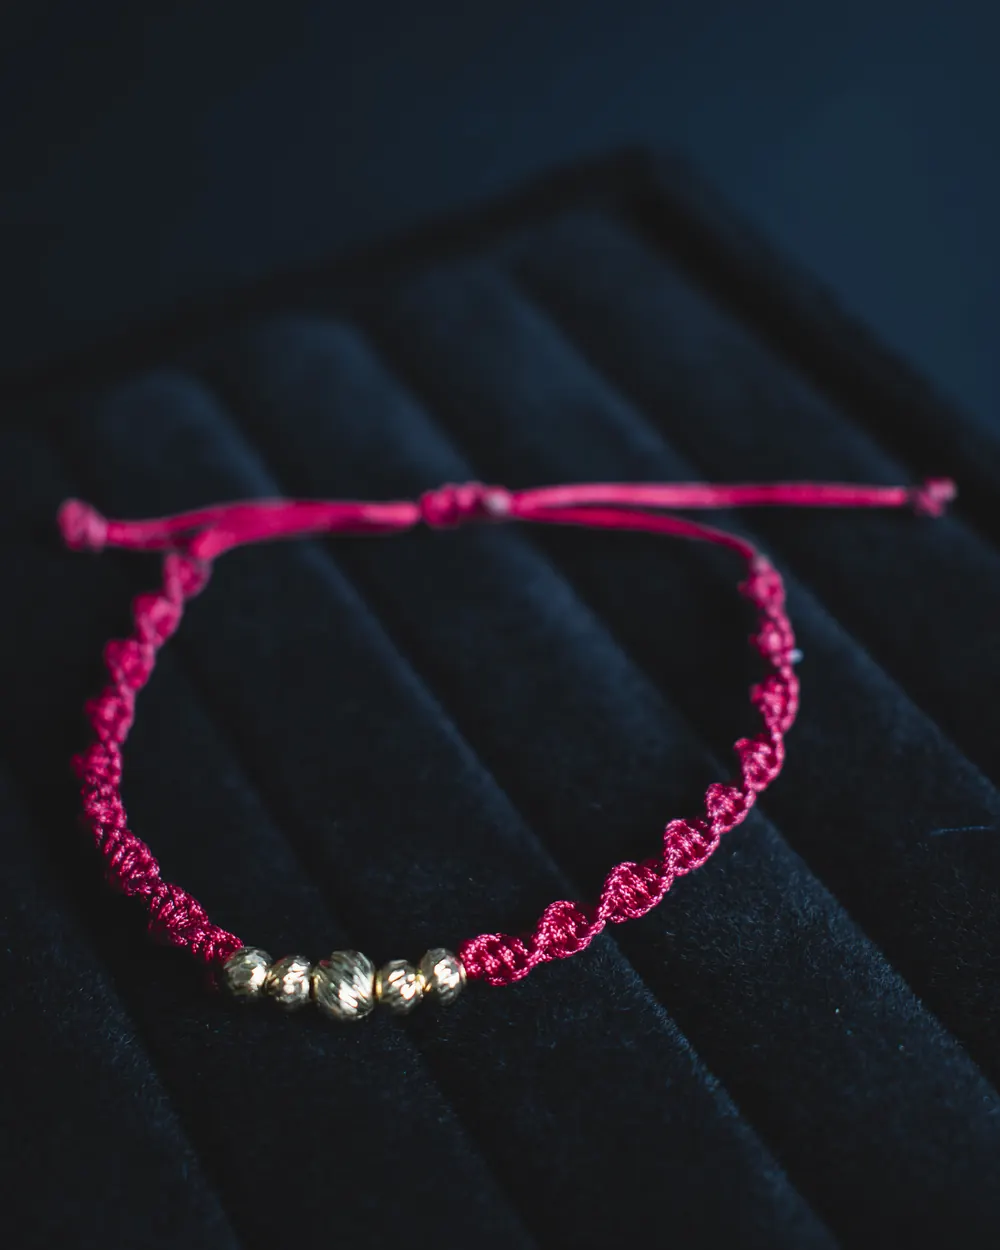
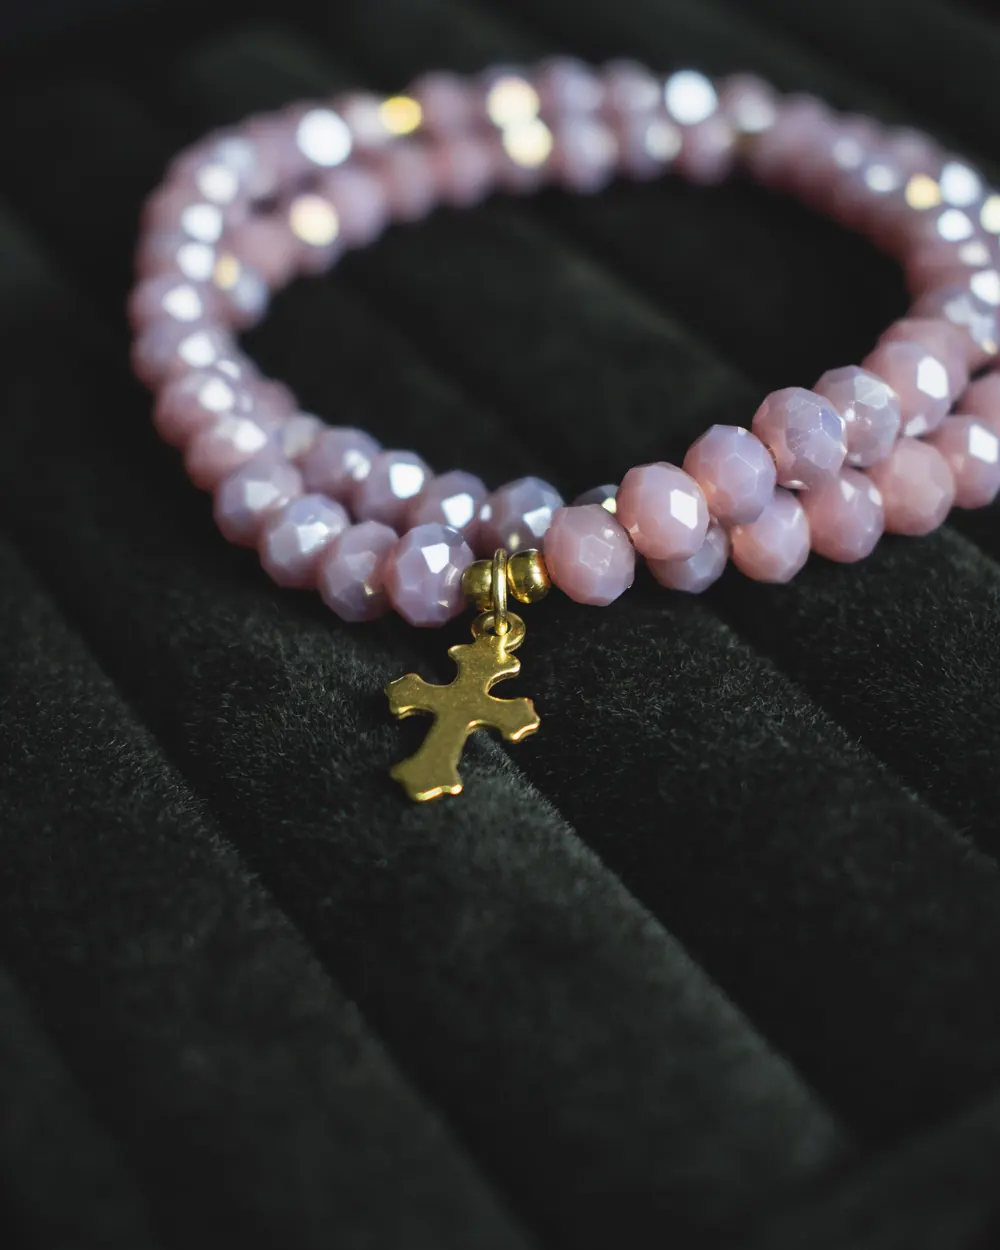
feat: Pulso usa la manilla rosada de cristal con cruz (0377, 0378, 0379)
Claude-Session: https://claude.ai/code/session_01VxAyZCstGyEpo6zTFDEtnV

diff --git a/lib/products.ts b/lib/products.ts
@@ -32,7 +32,7 @@ export const PRODUCTS: Product[] = [
   { id: "alma", tier: "ESSENTIAL", name: "Alma", priceNum: 179900, desc: "Carácter en su forma más pura.", longDesc: "Una pieza con carácter: balines de oro 18k tejidos a mano, para llevar sola o en capas.", gallery: ["/images/alma-1.webp", "/images/alma-2.webp"] },
   { id: "vertice", tier: "SIGNATURE", name: "Vértice", priceNum: 259900, desc: "El punto donde EDEN se define.", longDesc: "El corazón de la colección: tejido a mano en oro 18k, con la presencia justa.", gallery: ["/images/vertice-1.webp", "/images/vertice-2.webp", "/images/vertice-3.webp"] },
   { id: "aura", tier: "SIGNATURE", name: "Aura", priceNum: 329900, special: true, dije: true, desc: "Cordón rojo con medalla de San Benito.", longDesc: "Pieza icónica: cordón tejido en rojo con balines de oro 18k y medalla de San Benito en Oro 18K. Protección que se lleva puesta, todos los días.", gallery: [auraGeneral, auraDetalle, auraPuesta] },
-  { id: "pulso", tier: "SIGNATURE", name: "Pulso", priceNum: 379900, desc: "Ritmo y presencia en oro 18k.", longDesc: "Ritmo y presencia: tejido a mano en oro 18k, el pulso de la colección Signature.", gallery: ["/images/pulso-1.webp", "/images/pulso-2.webp"] },
+  { id: "pulso", tier: "SIGNATURE", name: "Pulso", priceNum: 379900, desc: "Ritmo y presencia en oro 18k.", longDesc: "Ritmo y presencia: tejido a mano en oro 18k, el pulso de la colección Signature.", gallery: ["/images/pulso-1.webp", "/images/pulso-2.webp", "/images/pulso-3.webp"] },
   { id: "eterna", tier: "PRIVÉ", name: "Eterna", priceNum: 479900, desc: "Lujo accesible que no caduca.", longDesc: "Colección Privé: la máxima expresión de EDEN, tejida a mano en oro 18k.", gallery: ["/images/eterna-1.webp"] },
   { id: "siempre", tier: "PRIVÉ", name: "Siempre", priceNum: 549900, special: true, dije: true, desc: "Espiral en hilo borgoña con dije de Oro 18K.", longDesc: "Pieza emocional, hecha para regalar: espiral premium en hilo borgoña, balines de 6 × 5 mm y dije de Oro 18K.", gallery: ["/images/siempre-1.webp"] },
   { id: "origen", tier: "PRIVÉ", name: "Origen", priceNum: 589900, desc: "Donde empieza todo EDEN.", longDesc: "El origen de EDEN: la pieza más completa de la colección, tejida a mano en oro 18k.", gallery: ["/images/origen-1.webp", "/images/origen-2.webp", "/images/origen-3.webp"] },
